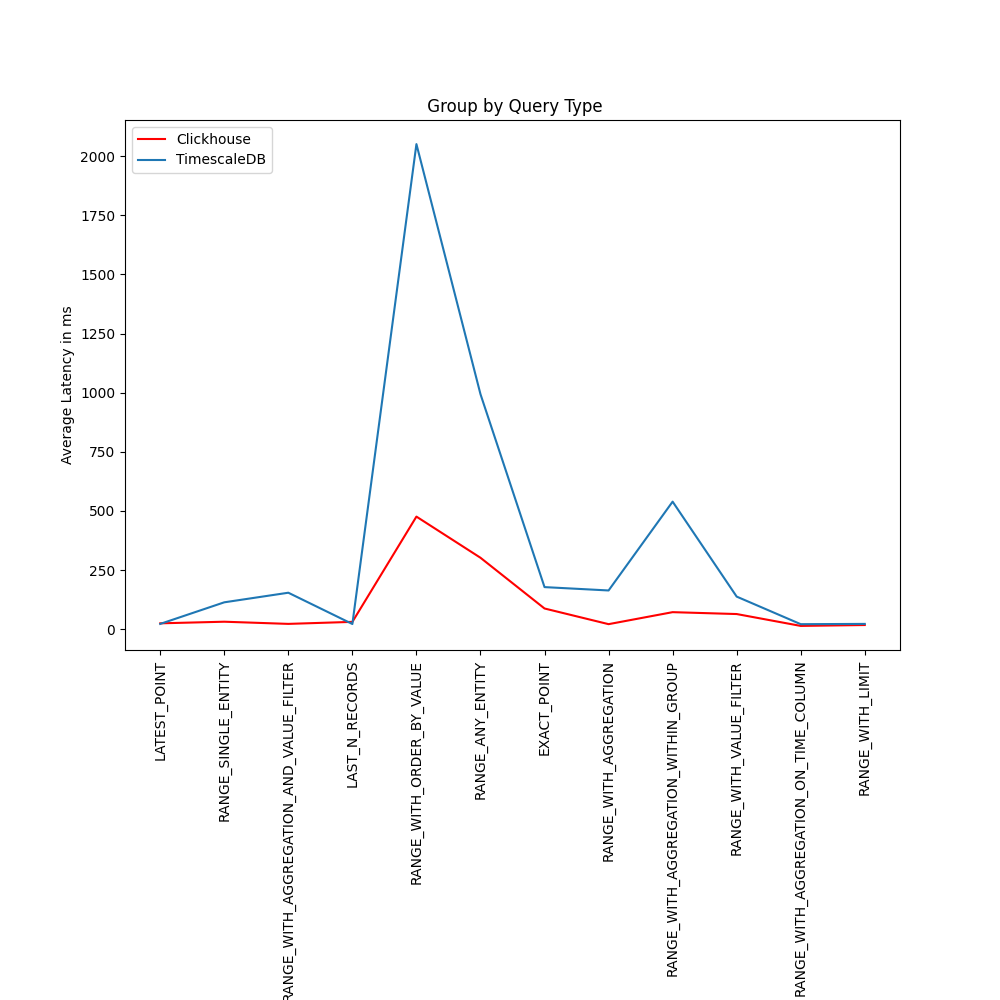
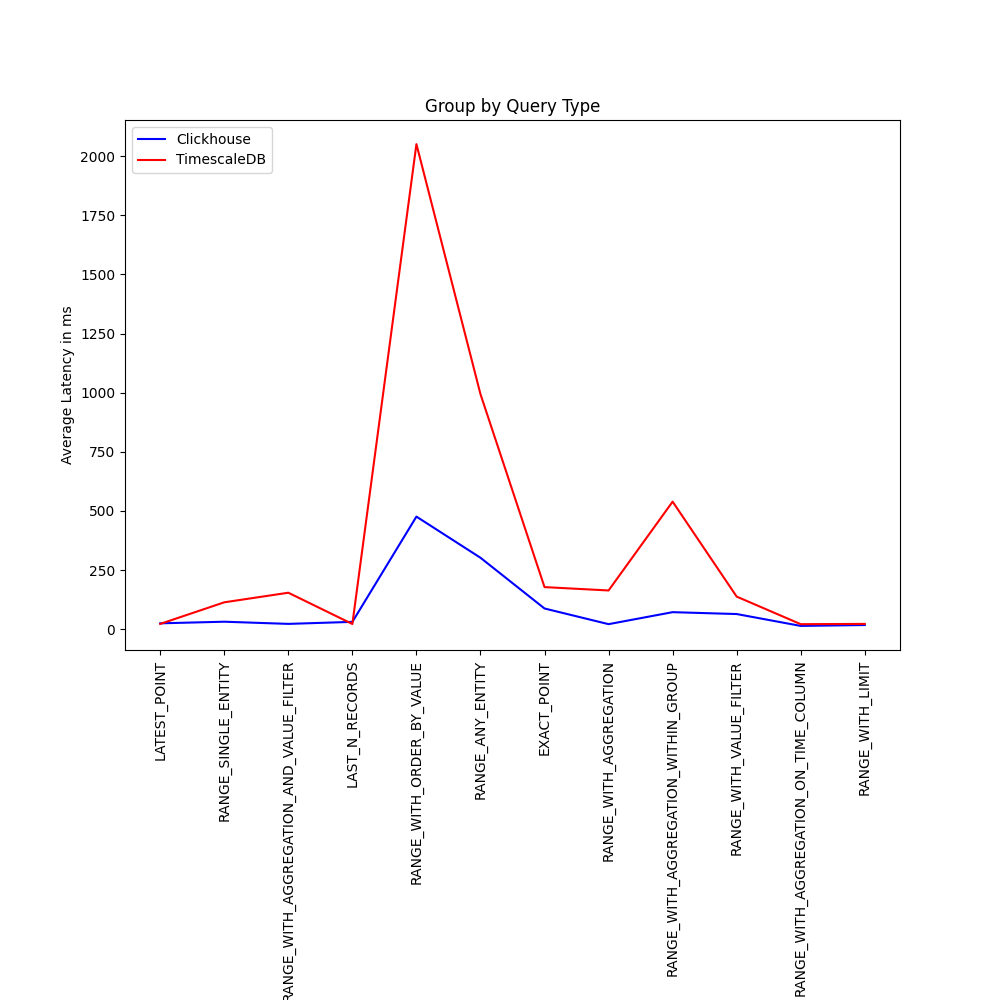
keep red for TSDB and blue for Clickhouse in the plots

diff --git a/visualizer.py b/visualizer.py
@@ -6,7 +6,7 @@ import os
 import numpy as np
 
 RESULTS_DIR = "results"
-RUN_DIR = "run4-compression-rate"  # !change there only if you want to plot results of other run
+RUN_DIR = "run2-big-taxi"  # !change there only if you want to plot results of other run
 RESULTS_FILE = "benchmark_result"
 PLOTS_DIR_NAME = "plots"
 
@@ -159,8 +159,8 @@ def groupByQueryType(json):
     plt.xticks(ticks=range(len(x)), labels=x, rotation=90)
     y_tsdb = list(results_by_db["TimescaleDb"].values())
     y_ch = list(results_by_db["ClickHouse"].values())
-    plt.plot(x, y_ch, color='red', label='Clickhouse')
-    plt.plot(x, y_tsdb, label='TimescaleDB')
+    plt.plot(x, y_ch, color='blue', label='Clickhouse')
+    plt.plot(x, y_tsdb, color='red', label='TimescaleDB')
     plt.legend(loc="upper left")
     plt.xlabel('Query Type')
     plt.ylabel('Average Latency in ms')
@@ -213,18 +213,18 @@ def main():
         # datasets = getAllValues(json_result, "dataset")
         # for dataset in datasets:
         ###### RUN1 and RUN2
-        # showLatencies(json_result, "ClickHouse")
-        # showLatencies(json_result, "TimescaleDb")
-        # visualize_write_percentages(json_result, 1000)
-        # visualize_read_only(json_result, 13192591, 1000)
-        # groupByQueryType(json_result)
+        showLatencies(json_result, "ClickHouse")
+        showLatencies(json_result, "TimescaleDb")
+        visualize_write_percentages(json_result, 1000)
+        visualize_read_only(json_result, 13192591, 1000)
+        groupByQueryType(json_result)
 
         ###### RUN3
         # visualize_write_only(json_result, "TaxiRidesDataset")
         # visualize_write_only(json_result, "ClimateDataset")
 
         ###### RUN4
-        visualize_compression_rate(json_result)
+        # visualize_compression_rate(json_result)
 
 
 if __name__ == "__main__":
